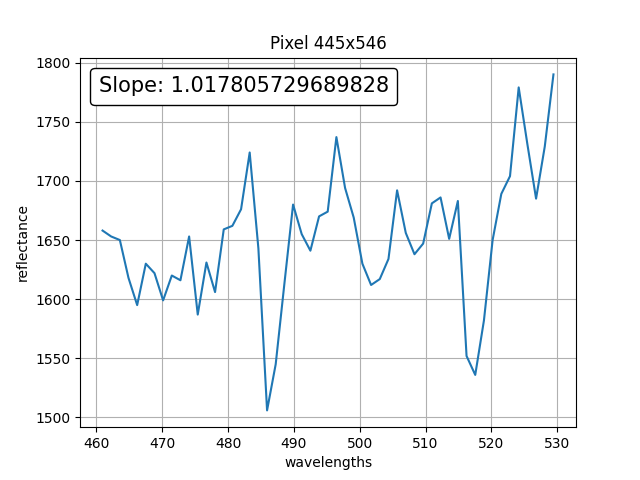
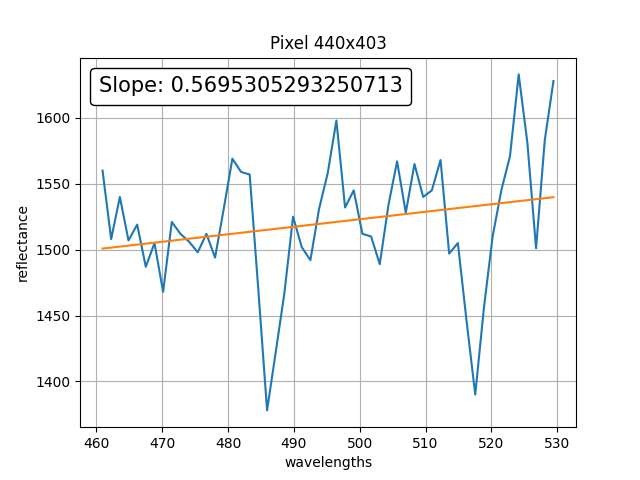
calculate and plot line of best fit

diff --git a/main.py b/main.py
@@ -32,12 +32,16 @@ def main(row: int, col: int) -> None:
     # reduced pixel values to match the index of respective wavelength values
     pixel = [value for index, value in enumerate(pixel) if index in pixel_index]
 
-    # calculate slope of the graph
-    slope = linregress(reduced_wavelengths, pixel).slope
+    # get values for line of best fit
+    reg = linregress(reduced_wavelengths, pixel)
+    intercept = reg.intercept
+    slope = reg.slope
+    best_fit_y_vals = [intercept + slope * value for value in reduced_wavelengths]
 
     # plot spectral signature
     fig, ax = plt.subplots()
     ax.plot(reduced_wavelengths, pixel)
+    ax.plot(reduced_wavelengths, best_fit_y_vals)
     ax.set(xlabel="wavelengths", ylabel="reflectance", title=f"Pixel {row}x{col}")
     ax.grid()
     at = AnchoredText(
